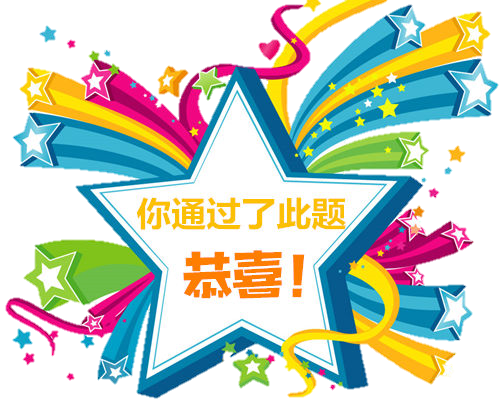
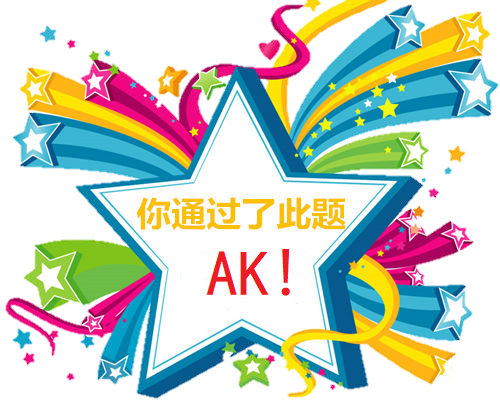
Commit at 2019年07月31日 14:48:59

Changed region(s): [[0.36, 0.6207, 0.63, 0.7389]]

diff --git a/source/2048/index.html b/source/2048/index.html
@@ -82,7 +82,7 @@
       <p>WA----------------------------------------------------------------------256</p>
       <p>PC----------------------------------------------------------------------512</p>
       <p>AC----------------------------------------------------------------------1024</p>
-      <p>通过---------------------------------------------------------------------2048</p>    
+      <p>AK---------------------------------------------------------------------2048</p>    
       
     </p>
     <hr>
